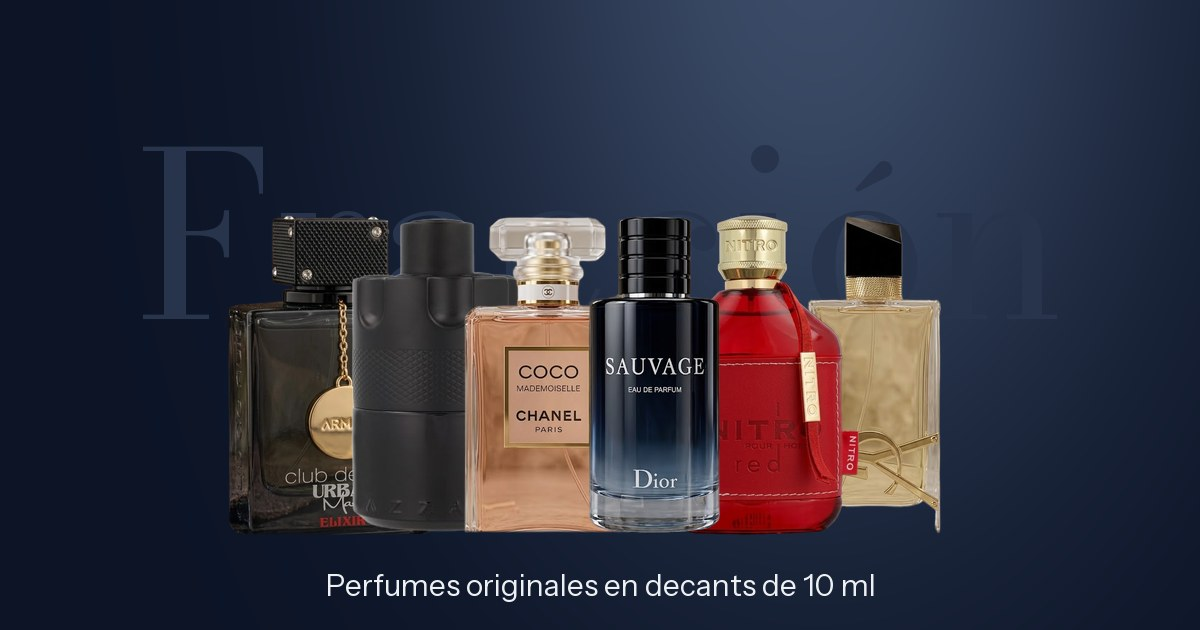
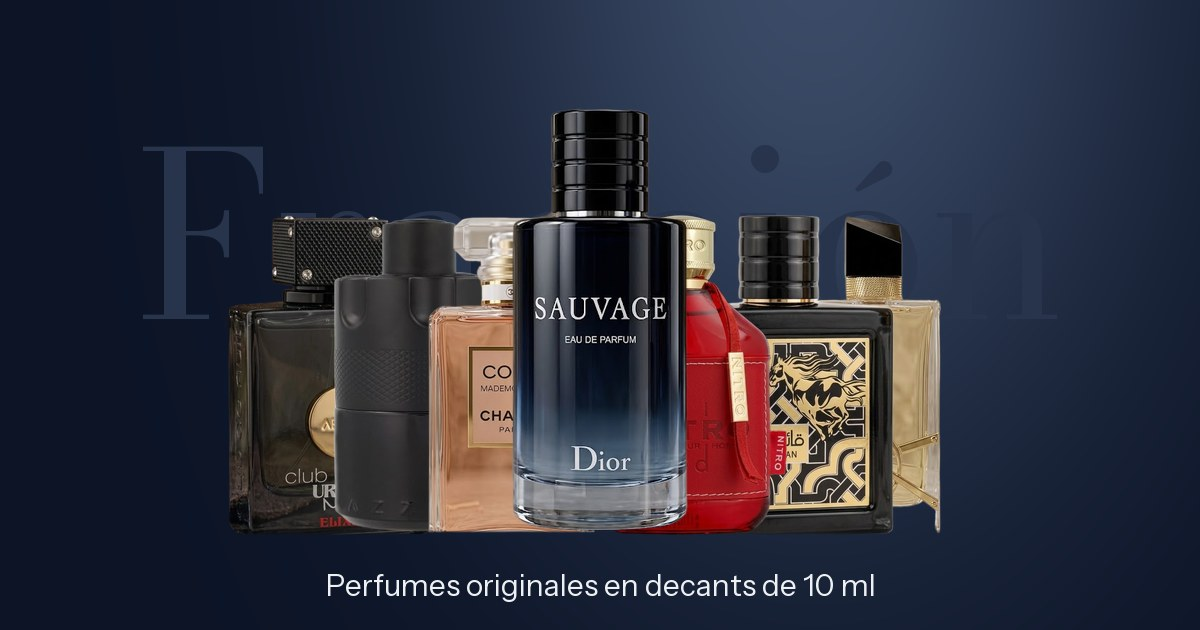
Nuevo perfume: Qaed Al Fursan de Lattafa
- Notas según Lattafa (oficial) y Lattafa USA, confirmadas en Fragrantica; aromático, unisex, 2016
- Eau de Parfum; la marca no publica perfumista
- Atmósfera negro y oro; recorte limpio de frasco y decant

Changed region(s): [[0.2775, 0.1508, 0.7708, 0.8746]]

diff --git a/data/products.ts b/data/products.ts
@@ -232,6 +232,41 @@ const entries: CatalogEntry[] = [
     atmosphere: { base: "#16161b", glow: "#cfa75e" },
     profile: { moment: "noche", character: ["calido", "especiado"] },
   },
+  {
+    slug: "lattafa-qaed-al-fursan-edp",
+    name: "Qaed Al Fursan",
+    brand: "Lattafa",
+    // ─── Lo que puedes cambiar ───
+    price: 100,
+    available: true,
+    featured: true,
+    // ─────────────────────────────
+    concentration: "EDP",
+    family: "aromatico",
+    gender: "unisex",
+    tagline: "Piña y azafrán sobre un fondo de oud, cedro y ámbar.",
+    description:
+      "Lattafa lo presenta como un aromático para hombre y mujer, construido sobre el contraste entre lo tropical y lo amaderado. Abre con azafrán y una piña jugosa; el corazón combina jazmín y bálsamo de abeto, y el fondo se asienta en madera de oud, cedro y ámbar.",
+    highlightNotes: ["Piña", "Azafrán", "Oud"],
+    year: 2016,
+    sources: [
+      { label: "Lattafa: Qaed Al Fursan", url: "https://lattafa.com/product/qaed-al-fursan/" },
+      { label: "Lattafa USA: Qaed Al Fursan", url: "https://www.lattafa-usa.com/products/qaed-al-fursan" },
+      { label: "Fragrantica: Qaed Al Fursan", url: "https://www.fragrantica.com/perfume/Lattafa-Perfumes/Qaed-Al-Fursan-67996.html" },
+    ],
+    notes: {
+      top: ["Azafrán", "Piña"],
+      heart: ["Jazmín", "Bálsamo de abeto"],
+      base: ["Madera de oud", "Cedro", "Ámbar"],
+    },
+    images: {
+      bottle: "/products/lattafa-qaed-al-fursan-edp/bottle.webp",
+      decant: "/products/lattafa-qaed-al-fursan-edp/decant.webp",
+      scene: "/products/lattafa-qaed-al-fursan-edp/scene.webp",
+    },
+    atmosphere: { base: "#15130a", glow: "#c89b3c" },
+    profile: { moment: "siempre", character: ["especiado", "calido"] },
+  },
 ];
 
 export const products: Product[] = entries.map(({ price, presentations, ...rest }) => ({
